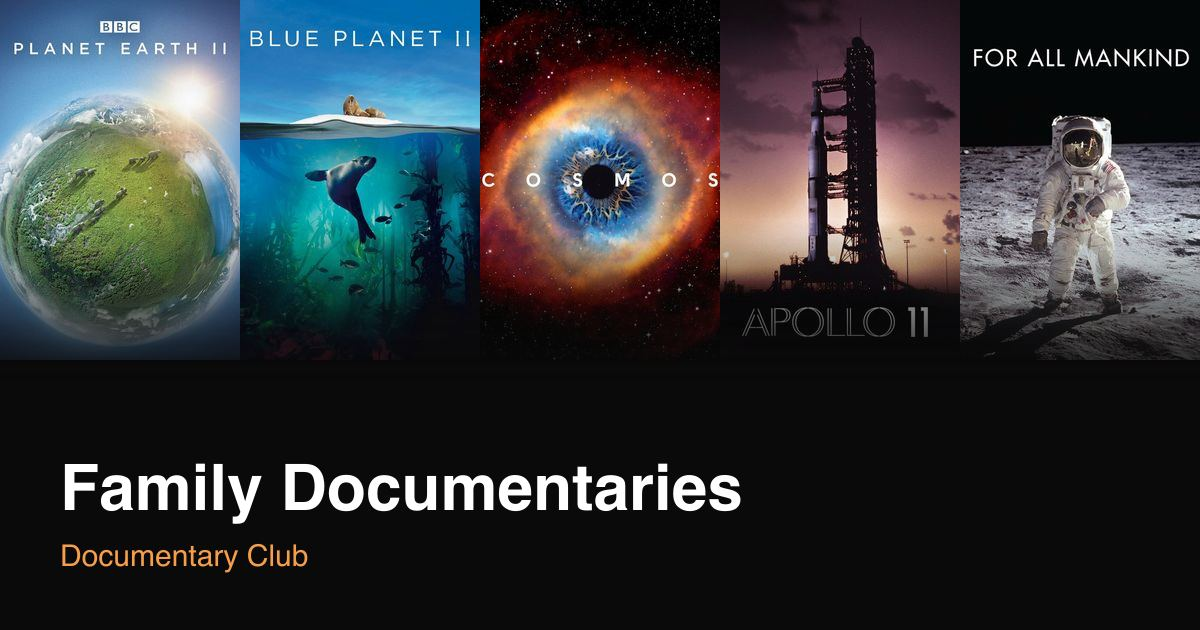
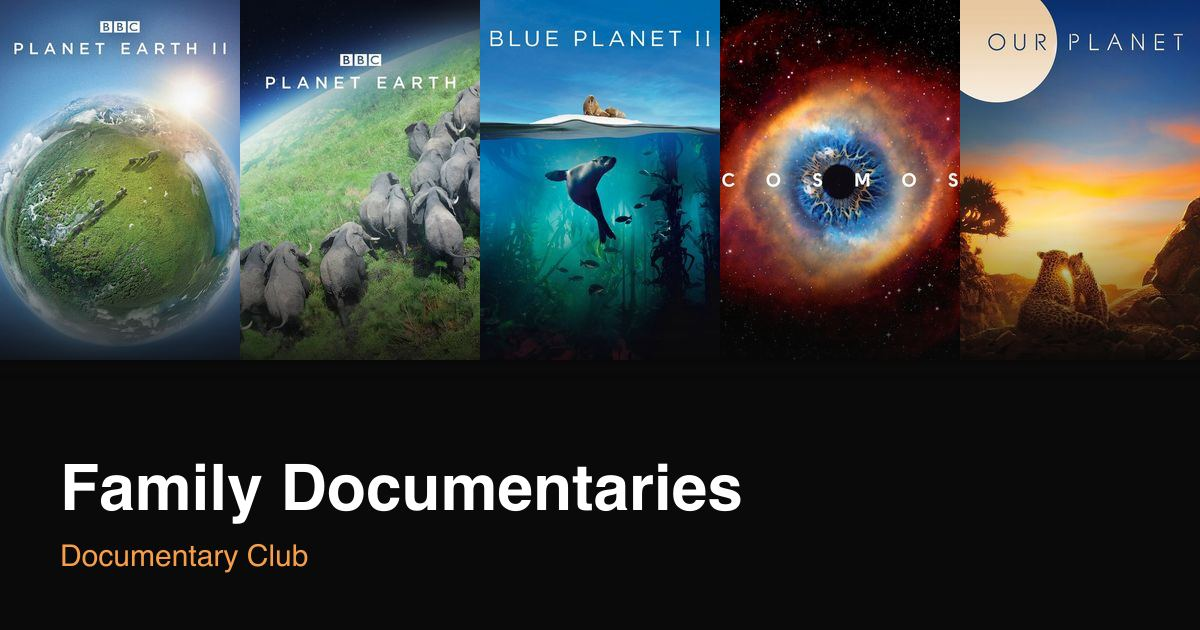
Family tag: add nature, Attenborough and kid-friendly titles (34)

diff --git a/src/data/list-intros.ts b/src/data/list-intros.ts
@@ -43,7 +43,7 @@ export const LIST_INTROS: Record<string, string> = {
   'tag:internet-culture': "How life online changed the way people think and behave. Don't F**k with Cats is internet sleuths hunting a killer, and The Remarkable Life of Ibelin is the most moving film on the list. Feels Good Man is a cartoon frog that got away from its creator.",
   'tag:all-archive-footage': "Told entirely through existing footage, with no new talking heads on screen. Senna, Apollo 11 and They Shall Not Grow Old show how powerful that can be when it's done well. Adam Curtis has made a career of it.",
   'tag:electronic-music': "The machines, scenes and people behind house, techno and rave. Pump Up the Volume is the history of house music, 808 is the drum machine that shaped modern pop, and Sisters with Transistors is the women who pioneered electronic music.",
-  'tag:family': "Every one of these is rated G or U, so you can put them on with the kids and not worry. Planet Earth II and March of the Penguins are the obvious start, and Microcosmos makes a meadow full of insects look like another planet. Apollo 11 might be the best way to show anyone the moon landing.",
+  'tag:family': "Documentaries you can put on with the kids and not worry. Anything with David Attenborough is the obvious start, and Microcosmos makes a meadow full of insects look like another planet. Apollo 11 might be the best way to show anyone the moon landing, and Spellbound will have the whole family rooting for a kid at a spelling bee.",
   'tag:religion': "Faith, cults and the people who lead, follow and leave them. Going Clear and Jesus Camp are the two to start with. Mea Maxima Culpa and Deliver Us from Evil are hard to watch and important.",
   // Picks
   'tag:editors-choice': "My personal favourites from the whole collection. If you only watch a handful of documentaries this year, make it these. Start with Dear Zachary and know nothing going in.",

diff --git a/src/data/tags.ts b/src/data/tags.ts
@@ -21,7 +21,7 @@ export const TAGS = [
   { id: 'gaming', label: 'Gaming', group: 'topics', title: 'Gaming Documentaries', description: 'The players, makers and rivalries behind video games.' },
   { id: 'all-archive-footage', label: 'All archive footage', group: 'topics', title: 'All-Archive Documentaries', description: 'Told entirely through existing footage, with no new interviews on screen.' },
   { id: 'electronic-music', label: 'Electronic Music', group: 'topics', title: 'Electronic Music Documentaries', description: 'The machines, scenes and people behind house, techno and rave.' },
-  { id: 'family', label: 'Family', group: 'topics', title: 'Family Documentaries', description: 'Rated G or U: documentaries to watch with the kids.' },
+  { id: 'family', label: 'Family', group: 'topics', title: 'Family Documentaries', description: 'Documentaries to put on with the kids: nature, space and kids winning at things.' },
   { id: 'religion', label: 'Religion', group: 'topics', title: 'Documentaries About Religion', description: 'Faith, cults and the people who lead, follow and leave them.' },
 ] as const;
 export const PICK_TAGS = TAGS.filter(t => t.group === 'picks');
